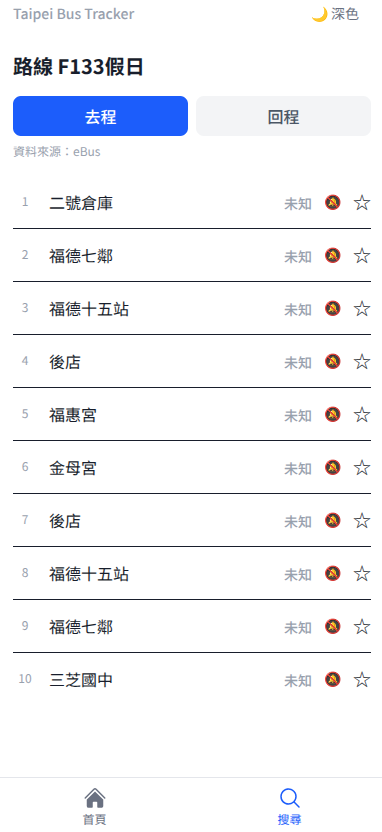
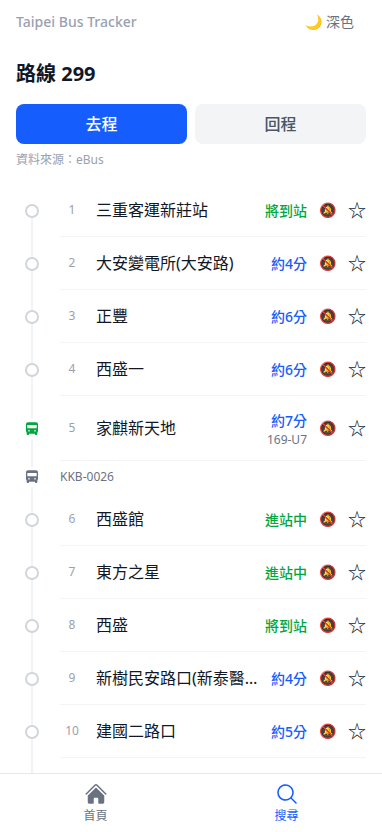
chore: 封存 ebus-departed-buses change，同步 specs 至主目錄
bus-data-source 的統一資料模型補上 departedBuses，並移除先前 change
已刪除卻仍留在 spec 的 status 欄位；go-api-proxy 的 ETA 回應與
pwa-frontend 的車輛位置圖示、車號完整呈現一併同步。

README 補上公車位置圖示並更新路線詳情截圖，tasks 已完成項目一併勾選。
tasks 5.6（TDX 來源實機驗證）未勾選：本機 config.yaml 無 TDX 憑證，
起不了 tdx provider，該路徑由 tdx/convert_test.go 與前端「TDX 無
departedBuses」情境涵蓋。

openspec 1.2.0 archive 會吃掉 Purpose 與 Requirements 標題後的空行、
並在檔尾多補一行，三份 spec 都已手動修回。

diff --git a/openspec/changes/archive/2026-08-26-ebus-departed-buses/tasks.md b/openspec/changes/archive/2026-08-26-ebus-departed-buses/tasks.md
@@ -1,0 +1,41 @@
+## 1. 後端保留 eBus 離站車輛
+
+- [x] 1.1 `internal/model/model.go`：`StopETA` 新增 `DepartedBuses []Bus`（`json:"departedBuses"`）
+- [x] 1.2 `internal/ebus/convert.go`：`convertETAs` 將 `s.BO` 轉為 `DepartedBuses`，`s.BI` 維持 `Buses`
+- [x] 1.3 `internal/ebus/convert_test.go`：補上只有 `bo`、只有 `bi`、兩者皆有、兩者皆空四種情境，以及離站車輛歸屬來源站、空車號略過
+- [x] 1.4 確認 `internal/tdx/convert.go` 的 `DepartedBuses` 為空且測試涵蓋
+
+## 2. API 回應與前端型別
+
+- [x] 2.1 `web/src/api/types.ts`：`StopETA` 新增 `departedBuses?: Bus[]`
+- [x] 2.2 `internal/handler/routes_test.go`：驗證 ETA 回應含 `departedBuses` 欄位且不被搬到下一站
+- [x] 2.3 用 `cmd/test-ebus` 實際打 API 驗證 `departedBuses` 有值（同時擴充該工具輸出站上／站間統計）
+
+## 3. 前端公車圖示與時間軸版型
+
+- [x] 3.1 新增 `web/src/components/BusMarker.tsx`：inline SVG 公車圖示，支援 `placement="at-stop" | "between"`
+- [x] 3.2 新增 `web/src/utils/plates.ts`：車號字串格式化，供 StopList 與 HomePage 共用
+- [x] 3.3 `StopList.tsx` 改為時間軸版型：左側節點與連線，站序保留在內容欄
+- [x] 3.4 停靠中車輛（`buses`）繪於站點節點
+- [x] 3.5 離站中車輛（`departedBuses`）繪於該站與下一站之間的連線段
+- [x] 3.6 末站的 `departedBuses` 繪於末站之後，不隱藏
+- [x] 3.7 深色模式下圖示與連線顏色檢查；車號對比由 `gray-400` 提高為 `gray-500 dark:gray-400`
+- [x] 3.8 `HomePage.tsx` 收藏卡片維持單站版型，改用共用的 `plateText`
+
+## 4. 前端測試
+
+- [x] 4.1 `StopList.test.tsx`：只有 `bo` 時車號顯示於站間
+- [x] 4.2 `StopList.test.tsx`：同站同時有 `bi` 與 `bo` 時顯示兩個圖示
+- [x] 4.3 `StopList.test.tsx`：末站 `bo` 仍顯示
+- [x] 4.4 `StopList.test.tsx`：兩者皆空時不顯示公車圖示；TDX 無 `departedBuses` 欄位時正常
+- [x] 4.5 `BusMarker.test.tsx` 與 `plates.test.ts`：兩種 placement 的渲染與無障礙標籤
+
+## 5. 驗證
+
+- [x] 5.1 `make lint` 通過
+- [x] 5.2 `make test` 通過（Go 全數 ok + React 95 tests）
+- [x] 5.3 手動驗證：eBus 299 去程，畫面車輛數與 API `bi`+`bo` 總數一致（站上 14 台、站間 7 台）
+- [x] 5.4 手動驗證：原本無車號的「將到站／進站中」站點，前方連線段已出現車輛圖示與車號
+- [x] 5.5 手動驗證：手機寬度（430px）與深色／淺色模式版型正常
+- [x] 5.6 手動驗證 TDX 來源路線僅顯示站上圖示 — **已於 2026-08-26 補驗**：`config.yaml` 填入 TDX 憑證後，以 `BUS_PORT=8099 BUS_PROVIDER=tdx` 啟動 server，打 `/api/routes/TPE11411/eta?gb=0`（299 去程）取得 59 站，`departedBuses` 全為 `null`（非空站數 0），確認 TDX 不會產生站間圖示；`internal/tdx/convert.go` 的 `convertETAs` 亦未賦值 `DepartedBuses`。整合測試 `go test -tags=integration ./internal/tdx/` 三項全數通過
+  - **補充發現**：TDX 路線實際上連站上圖示也不會出現。`convertETAs` 僅在 `PlateNumb != ""` 時填入 `Buses`，而 TDX 的 ETA API 不回傳 `PlateNumb`（59 站 `buses` 全為 `null`，`sequence` 亦全為 0）。故 TDX 來源的正確描述是「只有倒數秒數、無任何公車圖示」，本項標題的「僅顯示站上圖示」措辭偏樂觀

diff --git a/openspec/specs/bus-data-source/spec.md b/openspec/specs/bus-data-source/spec.md
@@ -12,11 +12,15 @@
 - **THEN** 上層業務邏輯不需要修改，因為所有 provider 都實作相同的 interface
 
 ### Requirement: 統一資料模型
-所有 provider SHALL 將上游資料轉換為統一的資料模型：Route（routeId, name, startStop, endStop）、Stop（stopId, name, sequence）、StopETA（stopId, stopName, sequence, eta, status, buses, source）。
+所有 provider SHALL 將上游資料轉換為統一的資料模型：Route（routeId, name, startStop, endStop）、Stop（stopId, name, sequence）、StopETA（stopId, stopName, sequence, eta, buses, departedBuses, source）。`buses` SHALL 只包含目前停靠在該站的車輛，`departedBuses` SHALL 只包含已駛離該站、正前往下一站的車輛。上游若未提供車輛位置語意，`departedBuses` SHALL 為空。
 
 #### Scenario: TDX 和 eBus 回傳相同格式
 - **WHEN** 分別透過 TDX 和 eBus provider 查詢同一路線的 ETA
 - **THEN** 回傳的 StopETA 結構相同，僅 source 欄位不同（"tdx" vs "ebus"）
+
+#### Scenario: 上游無離站車輛資訊
+- **WHEN** provider 的上游 API 不區分車輛停靠中與離站中（如 TDX 的到站預估 endpoint）
+- **THEN** 該 provider 回傳的每筆 StopETA 的 `departedBuses` SHALL 為空，`buses` 行為不變
 
 ### Requirement: TDX Provider
 TDX provider SHALL 使用 TDX API 的 OAuth Client Credentials 流程取得 Access Token，並用於後續 API 呼叫。Token SHALL 在過期前自動更新。
@@ -30,7 +34,7 @@ TDX provider SHALL 使用 TDX API 的 OAuth Client Credentials 流程取得 Acce
 - **THEN** provider SHALL 自動重新取得新的 Token，不中斷服務
 
 ### Requirement: eBus Provider
-eBus provider SHALL 透過 GET ebus.gov.taipei 頁面取得 CSRF token，再用 POST /EBus/GetStopDyns 取得到站資料。
+eBus provider SHALL 透過 GET ebus.gov.taipei 頁面取得 CSRF token，再用 POST /EBus/GetStopDyns 取得到站資料。回應中每站的 `bi` 與 `bo` SHALL 分別對應到停靠中與離站中的車輛，兩者皆 SHALL NOT 被丟棄。
 
 #### Scenario: eBus CSRF token 取得
 - **WHEN** provider 首次請求或 token 過期
@@ -39,6 +43,18 @@ eBus provider SHALL 透過 GET ebus.gov.taipei 頁面取得 CSRF token，再用 
 #### Scenario: eBus 資料轉換
 - **WHEN** eBus 回傳 `{sn, eta, bi, bo}` 格式
 - **THEN** provider SHALL 轉換為統一的 StopETA 模型，eta 值語義保持一致
+
+#### Scenario: bi 轉為停靠中車輛
+- **WHEN** 某站的 `bi` 含有車輛
+- **THEN** 這些車輛的車號 SHALL 出現在該站 StopETA 的 `buses` 中
+
+#### Scenario: bo 轉為離站中車輛
+- **WHEN** 某站的 `bo` 含有車輛
+- **THEN** 這些車輛的車號 SHALL 出現在**該站**（而非下一站）StopETA 的 `departedBuses` 中
+
+#### Scenario: 車輛不因位於站間而遺失
+- **WHEN** 某站的 `bi` 為 null 但 `bo` 含有車輛
+- **THEN** 該站的 StopETA SHALL 仍帶有這些車輛的車號於 `departedBuses`，不得回傳無任何車輛資訊
 
 ### Requirement: Fallback 機制
 系統 SHALL 以 TDX 為主要資料源。當 TDX 請求失敗（逾時 5 秒、HTTP 5xx、或額度用盡）時，SHALL 自動切換到 eBus provider。

diff --git a/openspec/specs/go-api-proxy/spec.md b/openspec/specs/go-api-proxy/spec.md
@@ -23,11 +23,11 @@ Go 後端 API，提供路線搜尋、站序查詢、即時到站時間等 RESTfu
 - **THEN** 系統回傳該路線去程的所有站點 JSON array，每筆包含 stopId、stopName、sequence，按站序排列，HTTP 200
 
 ### Requirement: API 取得即時到站時間
-系統 SHALL 提供 `GET /api/routes/{routeId}/eta?gb={direction}` endpoint，回傳指定路線某方向所有站的即時到站預估時間。回應中的到站資訊 SHALL 只包含秒數（`eta`），不包含人可讀的狀態文字——狀態文字由消費端（Web 前端、CLI）依秒數自行計算。
+系統 SHALL 提供 `GET /api/routes/{routeId}/eta?gb={direction}` endpoint，回傳指定路線某方向所有站的即時到站預估時間。回應中的到站資訊 SHALL 只包含秒數（`eta`），不包含人可讀的狀態文字——狀態文字由消費端（Web 前端、CLI）依秒數自行計算。每個站 SHALL 分別回傳停靠中車輛（`buses`）與離站中車輛（`departedBuses`）。
 
 #### Scenario: 取得到站時間成功
 - **WHEN** client 發送 `GET /api/routes/0100000100/eta?gb=0`
-- **THEN** 系統回傳 JSON，包含 route、direction、source（"tdx" 或 "ebus"）、updatedAt、stops array。每個 stop 包含 stopId、stopName、sequence、eta（秒）、buses array
+- **THEN** 系統回傳 JSON，包含 route、direction、source（"tdx" 或 "ebus"）、updatedAt、stops array。每個 stop 包含 stopId、stopName、sequence、eta（秒）、buses array、departedBuses array
 
 #### Scenario: 回應不含 status 欄位
 - **WHEN** client 取得任一筆 ETA 回應
@@ -36,6 +36,10 @@ Go 後端 API，提供路線搜尋、站序查詢、即時到站時間等 RESTfu
 #### Scenario: 到站秒數的特殊值
 - **WHEN** 上游回報非即時到站的狀態
 - **THEN** `eta` SHALL 以負數表示：-1 未發車、-2 末班車已駛離、-3 交管不停靠、-4 未營運。正數與 0 一律代表實際到站秒數
+
+#### Scenario: 離站車輛歸屬於來源站
+- **WHEN** 上游回報某車輛已駛離第 N 站
+- **THEN** 該車號 SHALL 出現在 stops 中 sequence 為 N 的物件的 `departedBuses`，SHALL NOT 被移動到下一站
 
 ### Requirement: API 回應格式統一
 所有 API endpoint SHALL 回傳統一的 JSON 格式。錯誤時 SHALL 回傳 `{"error": "message"}` 搭配適當的 HTTP status code。

diff --git a/README.md b/README.md
@@ -13,6 +13,7 @@
 - 路線搜尋、方向選擇、即時到站時間
 - 每 15 秒自動更新，中間每秒本地倒數（不額外發送請求）
 - 到站狀態分級顯示：進站中 / 將到站 / 約 N 分
+- 站點時間軸與公車位置圖示：停靠中的車畫在站點上，剛駛離的車畫在兩站之間（eBus 資料源）
 - 雙資料源 fallback（TDX 主要 + eBus 備援）
 - 收藏常用路線/站點
 - 到站瀏覽器通知提醒（首頁收藏可直接設定/查看）
@@ -36,7 +37,7 @@
 
 ### 路線詳情
 
-顯示所有站點的即時到站時間，可收藏站點、設定到站通知。
+以時間軸呈現所有站點的即時到站時間，公車圖示標示車輛目前位置，可收藏站點、設定到站通知。
 
 ![路線詳情](screenshots/route.png)
 
